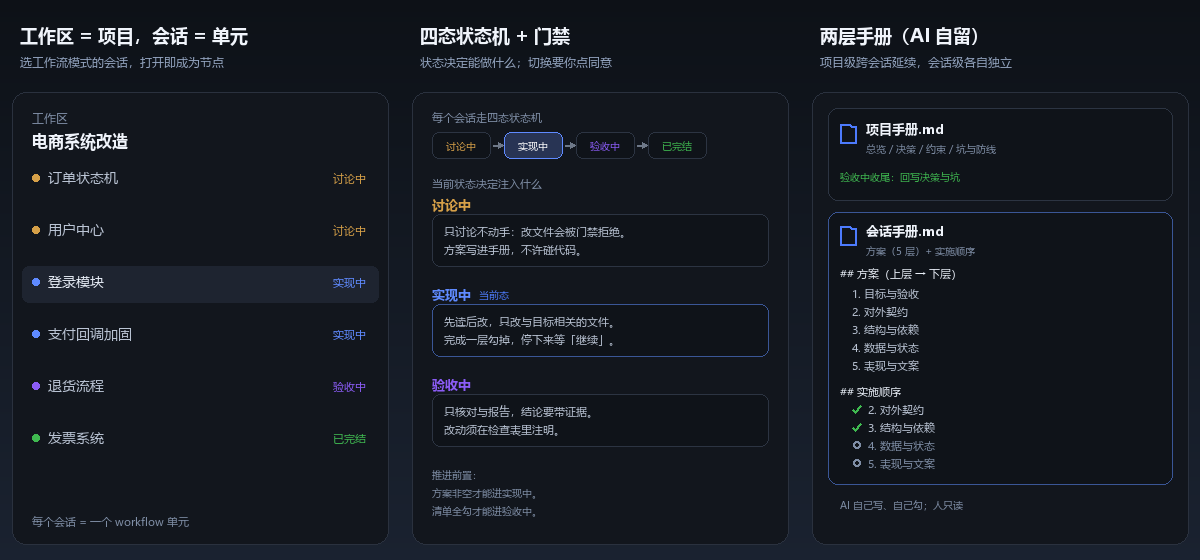
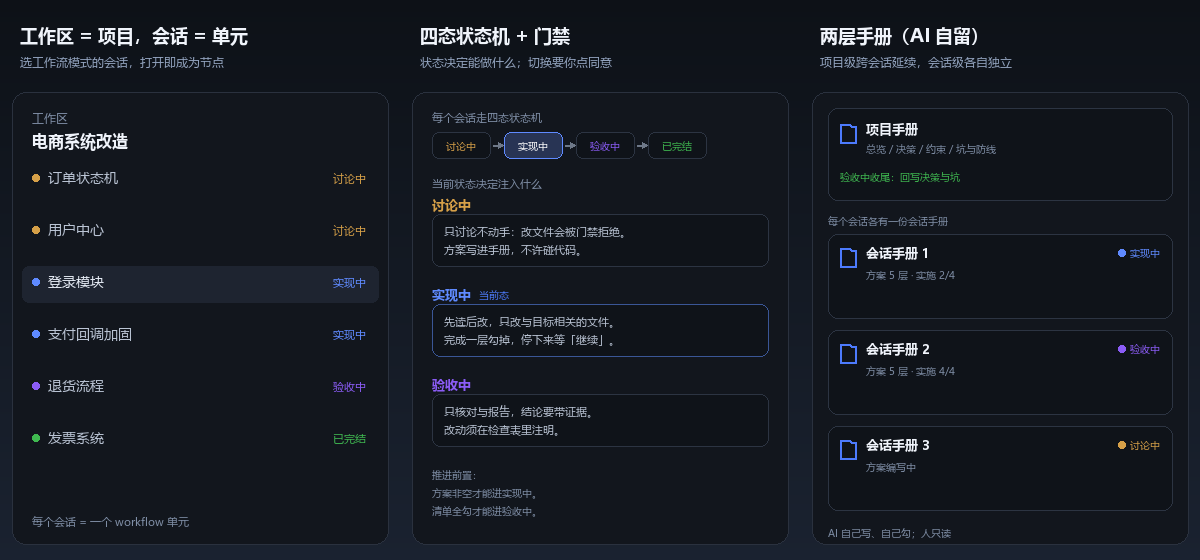
docs(cover): 右栏改为 1 个项目手册 + 3 个会话手册，去掉 .md 后缀

diff --git a/scripts/make-cover.py b/scripts/make-cover.py
@@ -193,39 +193,35 @@ def build_manual():
 
     x0, x1 = 28, COL_W - 28
 
-    # 项目手册
+    # 项目手册（一个项目一份）
     d.rounded_rectangle([(x0, PANEL_TOP + 16), (x1, PANEL_TOP + 16 + 92)], radius=10, fill=CODE_BG, outline=CODE_BORDER, width=1)
     file_icon(x0 + 12, PANEL_TOP + 32)
-    d.text((x0 + 38, PANEL_TOP + 28), "项目手册.md", font=file_font, fill=TEXT_PRIMARY)
+    d.text((x0 + 38, PANEL_TOP + 28), "项目手册", font=file_font, fill=TEXT_PRIMARY)
     d.text((x0 + 38, PANEL_TOP + 50), "总览 / 决策 / 约束 / 坑与防线", font=desc_font, fill=TEXT_MUTED)
     d.text((x0 + 12, PANEL_TOP + 78), "验收中收尾：回写决策与坑", font=note_font, fill=STATE_SUCCESS)
 
-    # 会话手册
-    box_top = PANEL_TOP + 120
-    box_bottom = box_top + 272
-    d.rounded_rectangle([(x0, box_top), (x1, box_bottom)], radius=10, fill=CODE_BG, outline=(58, 86, 150), width=1)
-    file_icon(x0 + 12, box_top + 14)
-    d.text((x0 + 38, box_top + 10), "会话手册.md", font=file_font, fill=TEXT_PRIMARY)
-    d.text((x0 + 38, box_top + 32), "方案（5 层）+ 实施顺序", font=desc_font, fill=TEXT_MUTED)
+    # 会话手册（每个会话一份，同一个项目下可以有很多份）
+    d.text((x0, PANEL_TOP + 122), "每个会话各有一份会话手册", font=note_font, fill=TEXT_MUTED)
 
-    d.text((x0 + 12, box_top + 54), "## 方案（上层 → 下层）", font=item_font, fill=ROW_TITLE)
-    layers = ["1. 目标与验收", "2. 对外契约", "3. 结构与依赖", "4. 数据与状态", "5. 表现与文案"]
-    for i, line in enumerate(layers):
-        d.text((x0 + 24, box_top + 74 + i * 18), line, font=item_font, fill=ROW_CHILD_TITLE)
+    sessions = [
+        ("会话手册 1", "方案 5 层 · 实施 2/4", "实现中", STATE_BRAND),
+        ("会话手册 2", "方案 5 层 · 实施 4/4", "验收中", STATE_VERIFY),
+        ("会话手册 3", "方案编写中", "讨论中", STATE_WARN),
+    ]
+    card_h, gap = 84, 12
+    top = PANEL_TOP + 142
+    for title, desc, state, color in sessions:
+        d.rounded_rectangle([(x0, top), (x1, top + card_h)], radius=10, fill=CODE_BG, outline=CODE_BORDER, width=1)
+        file_icon(x0 + 12, top + 14)
+        d.text((x0 + 38, top + 10), title, font=file_font, fill=TEXT_PRIMARY)
+        d.text((x0 + 38, top + 34), desc, font=desc_font, fill=TEXT_MUTED)
+        # 右侧状态点 + 状态名
+        state_w = d.textlength(state, font=desc_font)
+        d.ellipse([(x1 - 12 - state_w - 12, top + 15), (x1 - 12 - state_w - 5, top + 22)], fill=color)
+        d.text((x1 - 12 - state_w, top + 12), state, font=desc_font, fill=color)
+        top += card_h + gap
 
-    d.text((x0 + 12, box_top + 172), "## 实施顺序", font=item_font, fill=ROW_TITLE)
-    checks = [("2. 对外契约", True), ("3. 结构与依赖", True), ("4. 数据与状态", False), ("5. 表现与文案", False)]
-    for i, (label, done) in enumerate(checks):
-        cy = box_top + 192 + i * 18
-        cx = x0 + 24
-        if done:
-            d.line([(cx, cy + 5), (cx + 3, cy + 8)], fill=STATE_SUCCESS, width=2)
-            d.line([(cx + 3, cy + 8), (cx + 9, cy + 1)], fill=STATE_SUCCESS, width=2)
-        else:
-            d.ellipse([(cx + 1, cy + 1), (cx + 8, cy + 8)], outline=TEXT_MUTED, width=2)
-        d.text((cx + 16, cy - 2), label, font=item_font, fill=ROW_CHILD_TITLE if done else TEXT_MUTED)
-
-    d.text((x0 + 12, box_bottom + 14), "AI 自己写、自己勾；人只读", font=note_font, fill=TEXT_MUTED)
+    d.text((x0, top + 4), "AI 自己写、自己勾；人只读", font=note_font, fill=TEXT_MUTED)
     return layer
 
 
